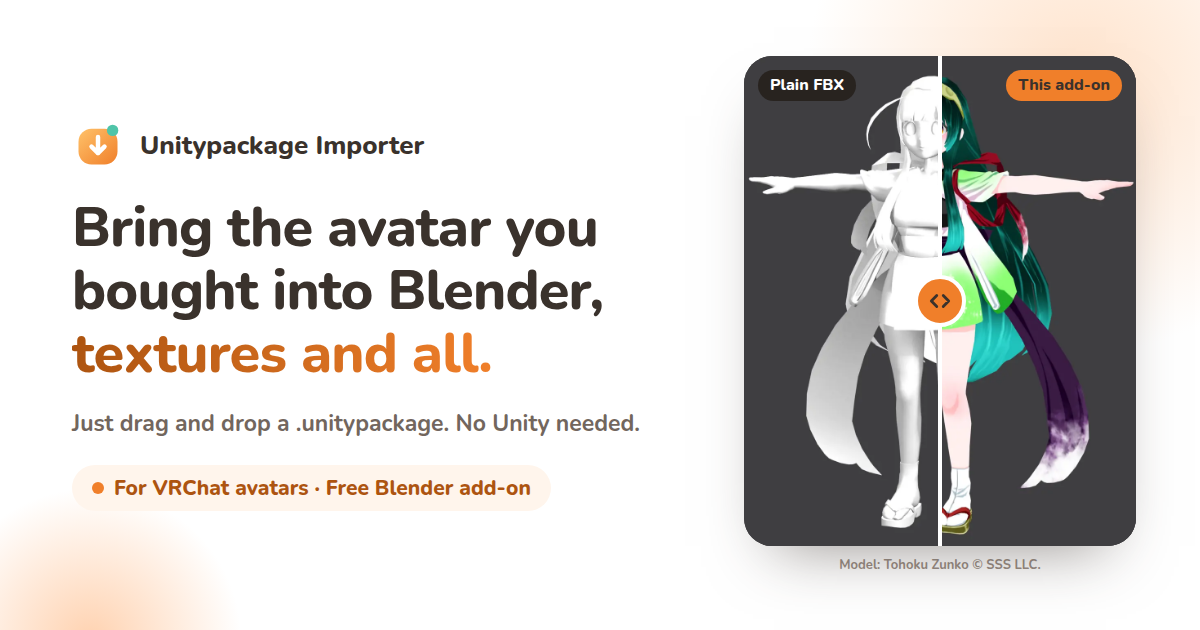
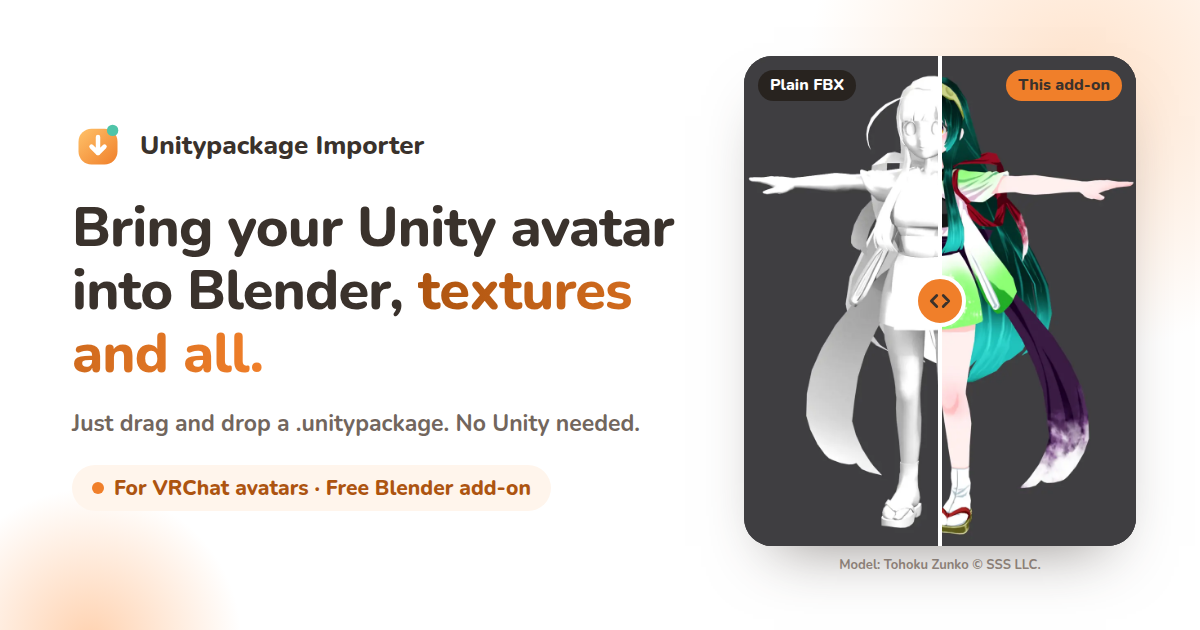
docs: 紹介ページの「買ったアバター」を「Unity 向けのアバター」に改める
アバターの持ち主は自分のアバターを「買ってきたもの」として見ておらず、「買った」と呼びかけると自分の話として受け取りにくい。
無料配布や人から借りたモデルを使う人を弾いてしまう問題もある。note で 2026-09-20 に入手経路に触れない書き方へ統一したのと同じ判断で、
h1・説明文（meta / OGP / X / 構造化データ）・OGP 画像・FAQ から購入を前提にした表現を外した。
h1 は「Unity 向けのアバターを、テクスチャ付きで Blender へ。」（英語は "Bring your Unity avatar into Blender, textures and all."）。
OGP 画像は tools/og_card.html から作り直した。

Changed region(s): [[0.0617, 0.3317, 0.555, 0.6032]]

diff --git a/web/ja/index.html b/web/ja/index.html
@@ -5,7 +5,7 @@
 <meta name="viewport" content="width=device-width, initial-scale=1">
 {{GTM_HEAD}}
 <title>unitypackage を Blender で開く無料アドオン｜VRChat アバターをテクスチャ付きで - Unitypackage Importer</title>
-<meta name="description" content="購入した VRChat アバターの .unitypackage を、Unity を開かずに Blender へドラッグ＆ドロップで読み込める無料アドオン。ボーン・表情・テクスチャ付きで、lilToon / Poiyomi / MToon の見た目に近い状態で読み込めます。">
+<meta name="description" content="VRChat アバターの .unitypackage を、Unity を開かずに Blender へドラッグ＆ドロップで読み込める無料アドオン。ボーン・表情・テクスチャ付きで、lilToon / Poiyomi / MToon の見た目に近い状態で読み込めます。">
 <link rel="canonical" href="{{BASE_URL}}/ja/">
 <link rel="alternate" hreflang="en" href="{{BASE_URL}}/">
 <link rel="alternate" hreflang="ja" href="{{BASE_URL}}/ja/">
@@ -13,17 +13,17 @@
 <meta property="og:type" content="website">
 <meta property="og:site_name" content="Unitypackage Importer">
 <meta property="og:title" content="Unitypackage Importer for Blender">
-<meta property="og:description" content="買ったアバターを、テクスチャ付きで Blender へ。Unity 不要、ドラッグ＆ドロップで読み込める無料アドオン（Blender 4.5 以降）。">
+<meta property="og:description" content="Unity 向けのアバターを、テクスチャ付きで Blender へ。Unity を開かずに、ドラッグ＆ドロップで読み込める無料アドオン（Blender 4.5 以降）。">
 <meta property="og:url" content="{{BASE_URL}}/ja/">
 <meta property="og:image" content="{{BASE_URL}}/assets/og-ja.png">
 <meta property="og:image:width" content="1200">
 <meta property="og:image:height" content="630">
-<meta property="og:image:alt" content="Unitypackage Importer：買ったアバターを、テクスチャ付きで Blender へ。FBX だけの読み込みとこのアドオンでの読み込みの比較画像付き。">
+<meta property="og:image:alt" content="Unitypackage Importer：Unity 向けのアバターを、テクスチャ付きで Blender へ。FBX だけの読み込みとこのアドオンでの読み込みの比較画像付き。">
 <meta property="og:locale" content="ja_JP">
 <meta property="og:locale:alternate" content="en_US">
 <meta name="twitter:card" content="summary_large_image">
 <meta name="twitter:title" content="Unitypackage Importer for Blender">
-<meta name="twitter:description" content="買ったアバターを、テクスチャ付きで Blender へ。Unity 不要、ドラッグ＆ドロップで読み込める無料アドオン（Blender 4.5 以降）。">
+<meta name="twitter:description" content="Unity 向けのアバターを、テクスチャ付きで Blender へ。Unity を開かずに、ドラッグ＆ドロップで読み込める無料アドオン（Blender 4.5 以降）。">
 <meta name="twitter:image" content="{{BASE_URL}}/assets/og-ja.png">
 <meta name="theme-color" content="#f07f2a">
 <link rel="icon" href="../assets/logo.svg" type="image/svg+xml">
@@ -61,7 +61,7 @@
   "author": { "@type": "Organization", "name": "utagestudio", "url": "https://github.com/utagestudio" },
   "codeRepository": "https://github.com/utagestudio/unitypackage_loader",
   "inLanguage": ["ja", "en"],
-  "description": "購入した VRChat アバターの .unitypackage を、Unity を開かずに Blender へドラッグ＆ドロップで読み込める無料アドオン。ボーン・表情・テクスチャ付きで、lilToon / Poiyomi / MToon の見た目に近い状態で読み込めます。"
+  "description": "VRChat アバターの .unitypackage を、Unity を開かずに Blender へドラッグ＆ドロップで読み込める無料アドオン。ボーン・表情・テクスチャ付きで、lilToon / Poiyomi / MToon の見た目に近い状態で読み込めます。"
 }
 </script>
 </head>
@@ -92,7 +92,7 @@
   <section class="hero">
     <div class="wrap">
       <div class="hero-copy">
-        <h1><span class="eyebrow"><span><span class="nb">unitypackage を Blender に</span><wbr><span class="nb">読み込む無料アドオン</span> · <span class="nb">VRChat アバター向け</span></span></span><span><span class="nb">買ったアバターを、</span><wbr><em class="nb">テクスチャ付きで</em><wbr><span class="nb">Blender へ。</span></span></h1>
+        <h1><span class="eyebrow"><span><span class="nb">unitypackage を Blender に</span><wbr><span class="nb">読み込む無料アドオン</span> · <span class="nb">VRChat アバター向け</span></span></span><span><span class="nb">Unity 向けの</span><wbr><span class="nb">アバターを、</span><wbr><em class="nb">テクスチャ付きで</em><wbr><span class="nb">Blender へ。</span></span></h1>
         <p class="lede">BOOTH などで手に入れた<sup>※</sup> <code>.unitypackage</code> を、Blender にドラッグ＆ドロップするだけ。Unity を開かなくても、ボーンや表情（シェイプキー）はそのまま、lilToon や Poiyomi の見た目に近い状態で読み込めます。</p>
         <div class="cta">
           <a class="btn btn-primary" href="#install">
@@ -377,9 +377,9 @@
           </div>
         </details>
         <details>
-          <summary>買ったアバターを改変したり、レンダリングした画像を公開したりしてもいいですか？</summary>
+          <summary>アバターを改変したり、レンダリングした画像を公開したりしてもいいですか？</summary>
           <div class="answer">
-            <p>このアドオンはファイルを読み込むための道具で、アセットの使い方を許可するものではありません。改変や画像・動画の公開、Unity 以外での利用ができるかどうかは、アセットごとの利用規約で決まります。購入したショップのページや同梱の規約を確認してから使ってください。</p>
+            <p>このアドオンはファイルを読み込むための道具で、アセットの使い方を許可するものではありません。改変や画像・動画の公開、Unity 以外での利用ができるかどうかは、アセットごとの利用規約で決まります。配布ページや同梱の規約を確認してから使ってください。</p>
           </div>
         </details>
         <details>

diff --git a/web/index.html b/web/index.html
@@ -5,7 +5,7 @@
 <meta name="viewport" content="width=device-width, initial-scale=1">
 {{GTM_HEAD}}
 <title>Import .unitypackage into Blender with Textures – Free Add-on | Unitypackage Importer</title>
-<meta name="description" content="A free Blender add-on that imports the VRChat avatar .unitypackage you bought, without opening Unity. Bones, facial shape keys and textures come in, looking close to lilToon, Poiyomi or MToon.">
+<meta name="description" content="A free Blender add-on that imports a VRChat avatar's .unitypackage without opening Unity. Bones, facial shape keys and textures come in, looking close to lilToon, Poiyomi or MToon.">
 <link rel="canonical" href="{{BASE_URL}}/">
 <link rel="alternate" hreflang="en" href="{{BASE_URL}}/">
 <link rel="alternate" hreflang="ja" href="{{BASE_URL}}/ja/">
@@ -13,17 +13,17 @@
 <meta property="og:type" content="website">
 <meta property="og:site_name" content="Unitypackage Importer">
 <meta property="og:title" content="Unitypackage Importer for Blender">
-<meta property="og:description" content="Bring the avatar you bought into Blender, textures and all. No Unity needed: a free drag-and-drop add-on for Blender 4.5 and later.">
+<meta property="og:description" content="Bring your Unity avatar into Blender, textures and all. No need to open Unity: a free drag-and-drop add-on for Blender 4.5 and later.">
 <meta property="og:url" content="{{BASE_URL}}/">
 <meta property="og:image" content="{{BASE_URL}}/assets/og.png">
 <meta property="og:image:width" content="1200">
 <meta property="og:image:height" content="630">
-<meta property="og:image:alt" content="Unitypackage Importer: bring the avatar you bought into Blender, textures and all, shown next to a plain FBX import.">
+<meta property="og:image:alt" content="Unitypackage Importer: bring your Unity avatar into Blender, textures and all, shown next to a plain FBX import.">
 <meta property="og:locale" content="en_US">
 <meta property="og:locale:alternate" content="ja_JP">
 <meta name="twitter:card" content="summary_large_image">
 <meta name="twitter:title" content="Unitypackage Importer for Blender">
-<meta name="twitter:description" content="Bring the avatar you bought into Blender, textures and all. No Unity needed: a free drag-and-drop add-on for Blender 4.5 and later.">
+<meta name="twitter:description" content="Bring your Unity avatar into Blender, textures and all. No need to open Unity: a free drag-and-drop add-on for Blender 4.5 and later.">
 <meta name="twitter:image" content="{{BASE_URL}}/assets/og.png">
 <meta name="theme-color" content="#f07f2a">
 <link rel="icon" href="assets/logo.svg" type="image/svg+xml">
@@ -61,7 +61,7 @@
   "author": { "@type": "Organization", "name": "utagestudio", "url": "https://github.com/utagestudio" },
   "codeRepository": "https://github.com/utagestudio/unitypackage_loader",
   "inLanguage": ["en", "ja"],
-  "description": "A free Blender add-on that imports the VRChat avatar .unitypackage you bought, without opening Unity. Bones, facial shape keys and textures come in, looking close to lilToon, Poiyomi or MToon."
+  "description": "A free Blender add-on that imports a VRChat avatar's .unitypackage without opening Unity. Bones, facial shape keys and textures come in, looking close to lilToon, Poiyomi or MToon."
 }
 </script>
 </head>
@@ -92,7 +92,7 @@
   <section class="hero">
     <div class="wrap">
       <div class="hero-copy">
-        <h1><span class="eyebrow">Import .unitypackage into Blender · Free add-on for VRChat avatars</span><span>Bring the avatar you bought into Blender, <em>textures and all.</em></span></h1>
+        <h1><span class="eyebrow">Import .unitypackage into Blender · Free add-on for VRChat avatars</span><span>Bring your Unity avatar into Blender, <em>textures and all.</em></span></h1>
         <p class="lede">Drag a <code>.unitypackage</code> from BOOTH or elsewhere* onto Blender. No Unity needed: bones and facial shape keys stay intact, and the materials come in looking close to lilToon or Poiyomi.</p>
         <div class="cta">
           <a class="btn btn-primary" href="#install">
@@ -379,7 +379,7 @@
         <details>
           <summary>Am I allowed to edit the avatar or publish renders of it?</summary>
           <div class="answer">
-            <p>This add-on only imports the files; it does not grant you any rights to the asset. Whether you may edit it, publish pictures or videos of it, or use it outside Unity is decided by each asset's license. Check the terms on the store page or in the package before you use it.</p>
+            <p>This add-on only imports the files; it does not grant you any rights to the asset. Whether you may edit it, publish pictures or videos of it, or use it outside Unity is decided by each asset's license. Check the terms on the page you got it from or in the package before you use it.</p>
           </div>
         </details>
         <details>

diff --git a/tools/og_card.html b/tools/og_card.html
@@ -49,8 +49,8 @@
         <svg viewBox="0 0 64 64" aria-hidden="true"><defs><linearGradient id="g" x1="0" y1="0" x2="1" y2="1"><stop offset="0" stop-color="#ffc26a"/><stop offset="1" stop-color="#f07f2a"/></linearGradient></defs><rect x="8" y="12" width="48" height="44" rx="16" fill="url(#g)"/><path d="M32 22v20M24 34l8 8 8-8" fill="none" stroke="#fff" stroke-width="5.5" stroke-linecap="round" stroke-linejoin="round"/><circle cx="50" cy="14" r="7" fill="#4fc4a8"/></svg>
         Unitypackage Importer
       </div>
-      <h1 data-en="Bring the avatar you bought into Blender, &lt;em&gt;textures and all.&lt;/em&gt;"
-          data-ja="&lt;span class=&quot;nb&quot;&gt;買ったアバターを、&lt;/span&gt;&lt;br&gt;&lt;em class=&quot;nb&quot;&gt;テクスチャ付きで&lt;/em&gt;&lt;br&gt;&lt;span class=&quot;nb&quot;&gt;Blender へ。&lt;/span&gt;"></h1>
+      <h1 data-en="Bring your Unity avatar into Blender, &lt;em&gt;textures and all.&lt;/em&gt;"
+          data-ja="&lt;span class=&quot;nb&quot;&gt;Unity 向けのアバターを、&lt;/span&gt;&lt;br&gt;&lt;em class=&quot;nb&quot;&gt;テクスチャ付きで&lt;/em&gt;&lt;br&gt;&lt;span class=&quot;nb&quot;&gt;Blender へ。&lt;/span&gt;"></h1>
       <p data-en="Just drag and drop a .unitypackage. No Unity needed."
          data-ja=".unitypackage をドロップするだけ。Unity は不要です。"></p>
       <span class="pill" data-en="For VRChat avatars · Free Blender add-on" data-ja="VRChat アバター向け · 無料の Blender アドオン"></span>
